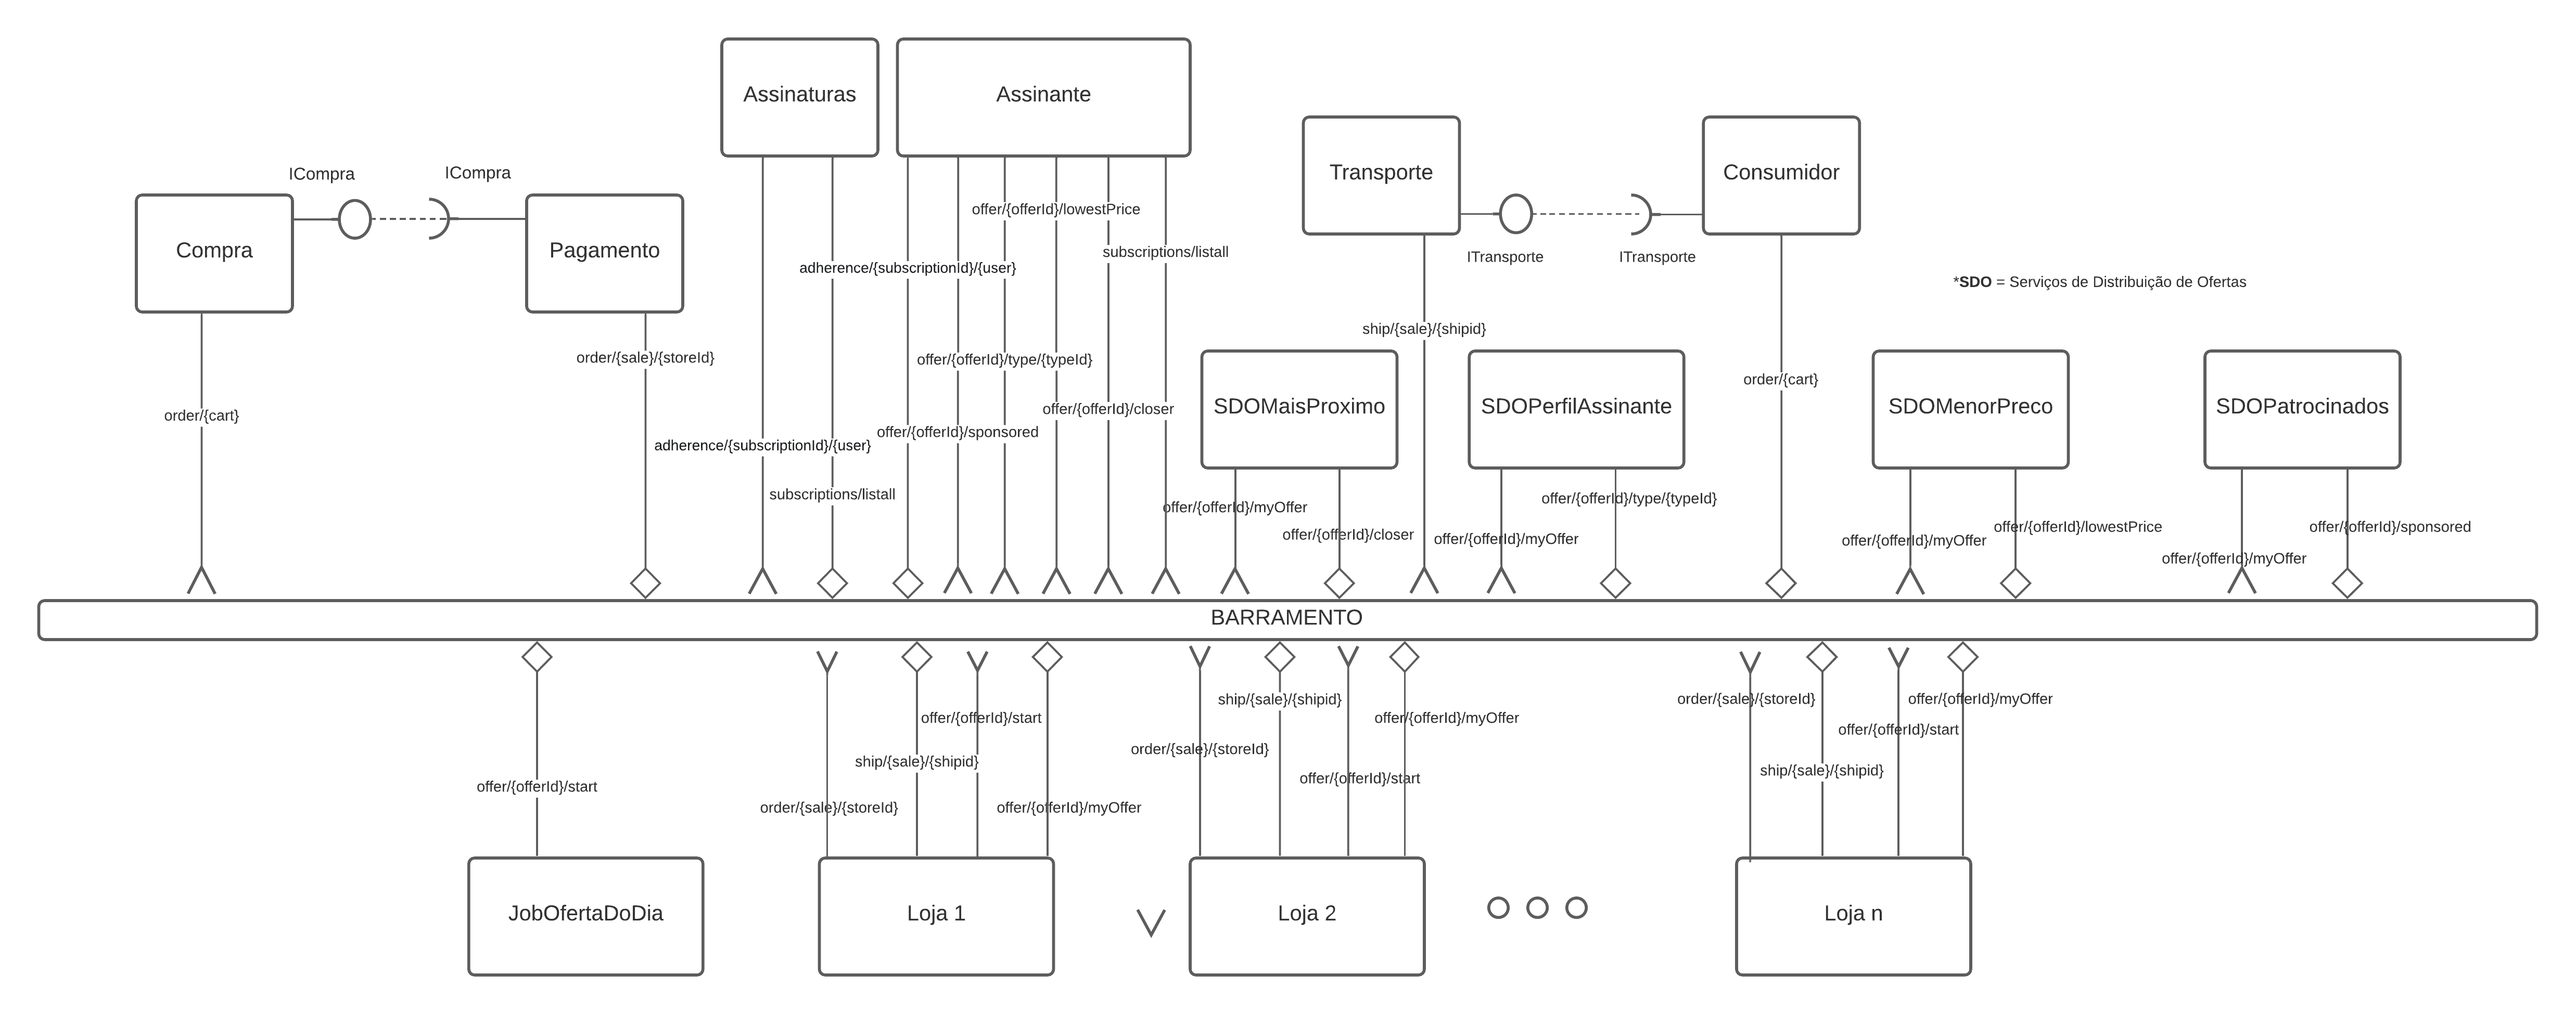
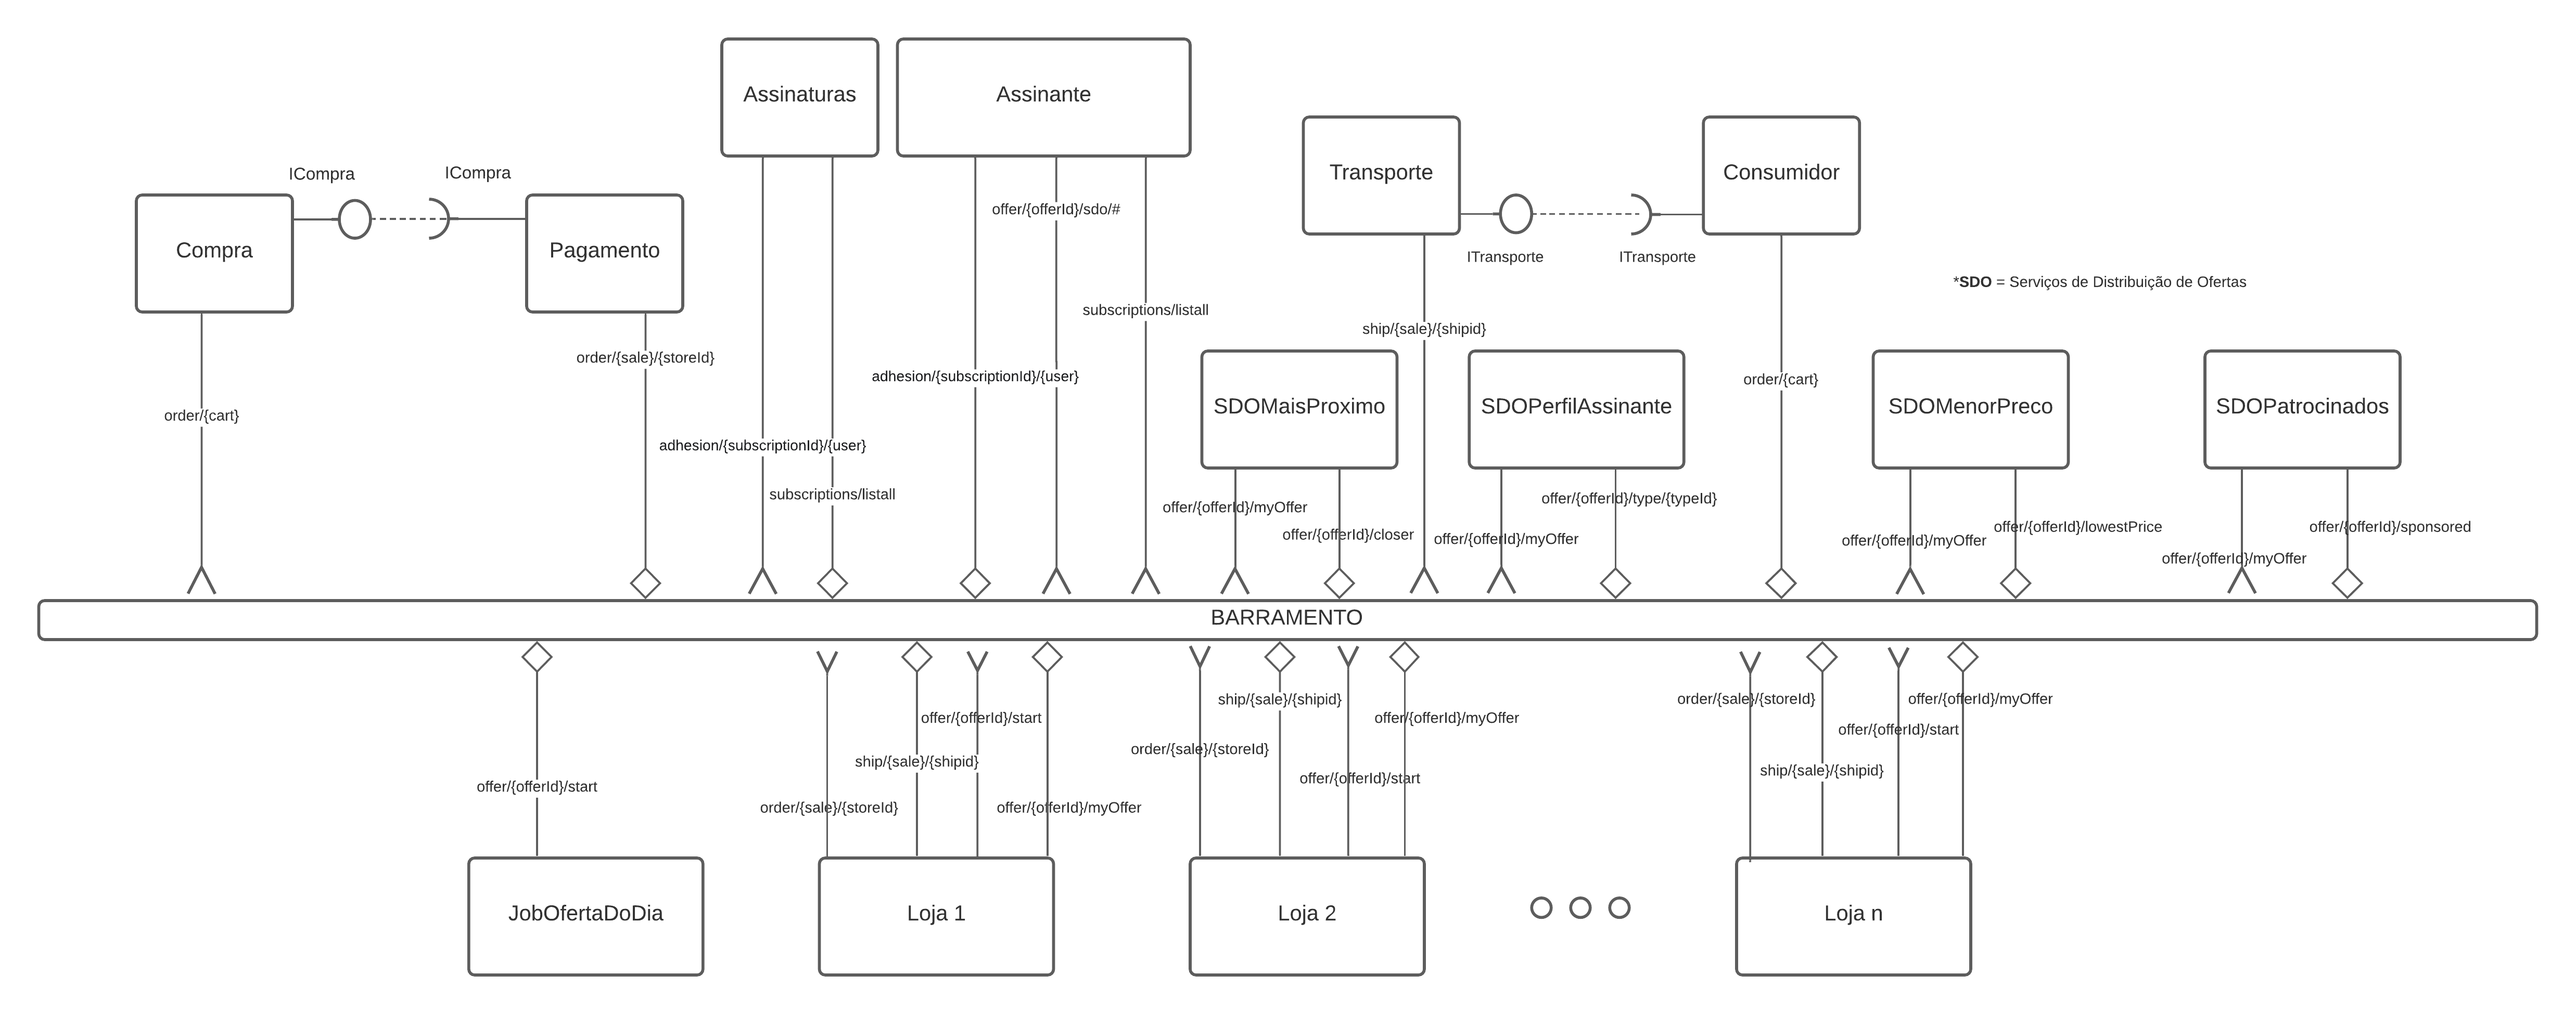
Adhesion e offer/offerId/sdo/#

diff --git a/README.md b/README.md
@@ -26,15 +26,15 @@
   
 * Diversos Serviços de Distribuição de Ofertas (SDO) se conectam ao barramento, assinando mensagens de tópico "`offer/+/myOffer`" e realizando processamentos
   específicos sobre elas, finalmente selecionando quais ofertas serão enviadas ao assinante, através da interface `OfferDistService`.
-* As ofertas filtradas pelos SDO são emitidas no barramento na forma de tópicos "`offer/{offerId}/+`", em que o wildcard representa uma das terminações de
-  tópico específicas para os SDO (`closer`, `type/{typeId}`, `lowestPrice`, `sponsored`).
+* As ofertas filtradas pelos SDO são emitidas no barramento na forma de tópicos "`offer/{offerId}/sdo/#`", em que o *wildcard* representa uma das terminações de
+  tópico específicas para os diferentes tipos de SDO existentes (no momento deste relatório existem os serviços: `closer`, `type/{typeId}`, `lowestPrice`, `sponsored`).
 
 * O componente `Assinante` escuta a mensagem no tópico `subscriptions/listall` emitido por `Assinatura` para obter a lista de tipos de assinaturas disponíveis para apreciação.
-* O componente `Assinante` envia mensagem no tópico `adherence/{subscriptionId/{user}` para se cadastrar em um plano de assinatura que por sua vez é escutado pelo componente `Assinatura`.
-* O componente `Assinante` escuta mensagens no tópico `offer/{offerId}/closer` emitido pelo componente `SDOMaisProximo` para obter ofertas mais próximas.
-* O componente `Assinante` escuta mensagens no tópico `offer/{offerId}/type/{typeId}` emitido pelo componente `SDOPerfilAssinante` para obter ofertas personalizadas de acordo com o gosto pessoal.
-* O componente `Assinante` escuta mensagens no tópico `offer/{offerId}/lowestPrice` emitido pelo componente `SDOMenorPreco` para obter as ofertas dos produtos com menores preços.
-* O componente `Assinante` escuta mensagens no tópico `offer/{offerId}/sponsored` emitido pelo componente `SDOPatrocinados` para obter as ofertas de produtos patrocinados.
+* O componente `Assinante` envia mensagem no tópico `adhesion/{subscriptionId/{user}` para se cadastrar em um plano de assinatura que por sua vez é escutado pelo componente `Assinatura`.
+* O componente `Assinante` escuta mensagens no tópico `offer/{offerId}/sdo/closer` emitido pelo componente `SDOMaisProximo` para obter ofertas mais próximas.
+* O componente `Assinante` escuta mensagens no tópico `offer/{offerId}/sdo/type/{typeId}` emitido pelo componente `SDOPerfilAssinante` para obter ofertas personalizadas de acordo com o gosto pessoal.
+* O componente `Assinante` escuta mensagens no tópico `offer/{offerId}/sdo/lowestPrice` emitido pelo componente `SDOMenorPreco` para obter as ofertas dos produtos com menores preços.
+* O componente `Assinante` escuta mensagens no tópico `offer/{offerId}/sdo/sponsored` emitido pelo componente `SDOPatrocinados` para obter as ofertas de produtos patrocinados.
 * O componente `Consumidor` envia a mensagem no tópico `order/{cart}` para que seja realizado a compra do produto escolhido pelo cliente.
 * O componente `Compra` escuta a mensagem no tópico `order/{cart}` emitido por `Consumidor` e então realiza a comunicação com o pagamento. O componente `Compra` provém para o pagamento a interface `ICompra`.
 * O componente `Pagamento` por requerer uma interface `ICompra`, ao obtê-la realiza todos os processamentos necessários com o carrinho de compras do consumidor.
